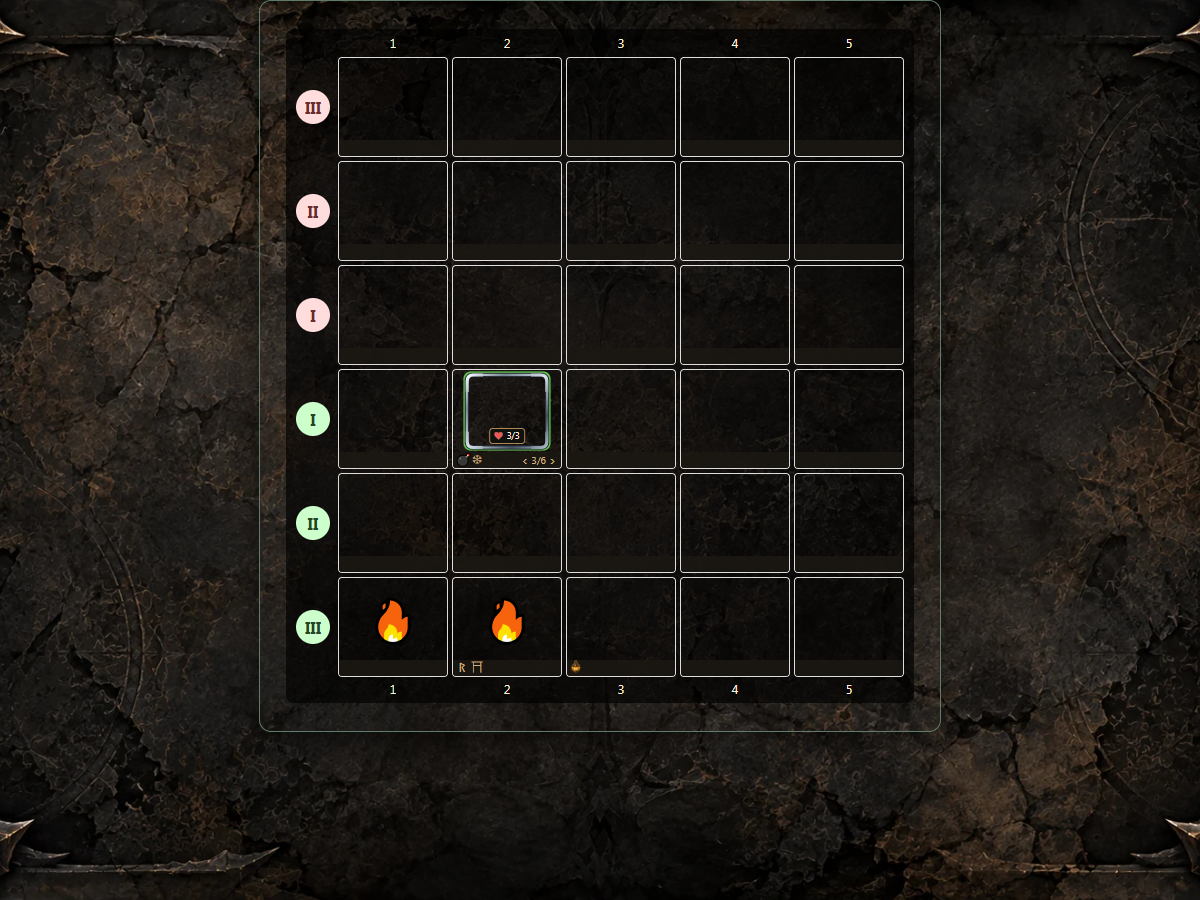
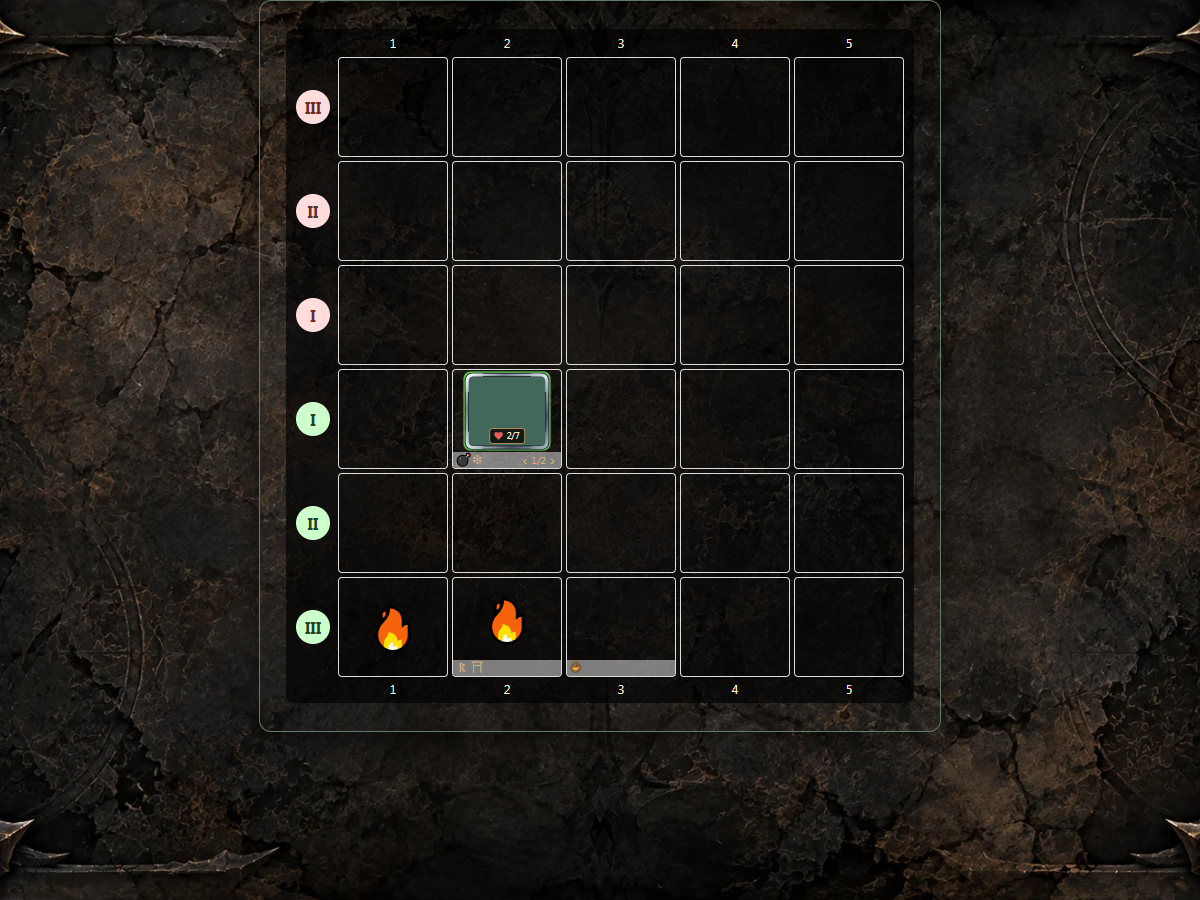
Show cell footer only when needed and restore marker hints

Changed region(s): [[0.37, 0.7156, 0.5858, 0.7778], [0.37, 0.4044, 0.4625, 0.5289], [0.3083, 0.6533, 0.3392, 0.7467]]

diff --git a/www/assets/css/battle-mini-card.css b/www/assets/css/battle-mini-card.css
@@ -70,17 +70,20 @@ html[data-battle-dragging],html[data-battle-dragging] *{cursor:grabbing!importan
 
 /* One shared footer, independent of the creature currently displayed. */
 .battle-page .cell-presentation{position:relative;width:100%;height:100%}
-.battle-page [data-cell-occupant]{position:absolute;inset:0 0 16px;display:flex;align-items:center;justify-content:center}
+.battle-page [data-cell-occupant]{position:absolute;inset:0;display:flex;align-items:center;justify-content:center}
 .battle-page [data-cell-occupant][hidden]{display:none!important}
 .battle-page [data-cell-occupant]>.card-link{width:100%;height:100%}
-.battle-page [data-cell-occupant] .battle-mini-card{zoom:.87}
-.battle-page .cell-bottom-strip{position:absolute;bottom:0;left:0;right:0;height:16px;display:flex;align-items:center;gap:2px;background:rgba(27,23,18,.9);color:#d3b383;z-index:21;box-sizing:border-box;padding:0 2px;pointer-events:none}
+.battle-page .cell-presentation:has(.cell-bottom-strip) [data-cell-occupant]{bottom:16px}
+.battle-page .cell-presentation:has(.cell-bottom-strip) [data-cell-occupant] .battle-mini-card{zoom:.87}
+.battle-page .cell-bottom-strip{position:absolute;bottom:0;left:0;right:0;height:16px;display:flex;align-items:center;gap:2px;background:rgba(221, 221, 221, 0.55);color:#d3b383;z-index:21;box-sizing:border-box;padding:0 2px;pointer-events:none}
 .battle-page .cell-bottom-strip .cell-markers{position:static;display:flex;flex:1 1 0;min-width:0;height:16px;gap:1px;overflow-x:auto;overflow-y:hidden;scrollbar-width:none;pointer-events:auto}
-.battle-page .cell-bottom-strip .cell-marker{position:static;flex:0 0 14px;width:14px;height:14px;line-height:14px;font-size:13px;text-align:center;border:0;border-radius:0;background:transparent;text-shadow:none;pointer-events:none}
+.battle-page .cell-bottom-strip .cell-marker{position:static;flex:0 0 14px;width:14px;height:14px;line-height:14px;font-size:13px;text-align:center;border:0;border-radius:0;background:transparent;text-shadow:none;pointer-events:auto}
 .battle-page .cell-bottom-strip .cell-marker::after{content:none}
 .battle-page .cell-bottom-strip .cell-marker-lantern_light{background:url('/assets/images/lantern.png') center/contain no-repeat}
 .battle-page .cell-switch{display:flex;align-items:center;flex:0 0 auto;height:16px;font:10px/16px system-ui,sans-serif;font-variant-numeric:tabular-nums;white-space:nowrap;pointer-events:auto;color:#d3b383}
 .battle-page .cell-switch button{all:unset;box-sizing:border-box;width:13px;height:16px;text-align:center;font:16px/16px system-ui,sans-serif;cursor:pointer;color:inherit}
 .battle-page .cell-switch button:focus-visible{outline:1px solid #e4c28d;outline-offset:-1px}
-.battle-page .cell-bonfire{position:absolute;inset:0 0 16px;display:flex;align-items:center;justify-content:center;font:42px/1 system-ui,sans-serif;z-index:20;pointer-events:none}
+.battle-page .cell-bonfire{position:absolute;inset:0;display:flex;align-items:center;justify-content:center;font:42px/1 system-ui,sans-serif;z-index:20;pointer-events:none}
 .battle-page [data-mini-card-design="v2"] .field-cell.attack-target:has([data-cell-occupant]:not([hidden]) [data-drag-owner="own"]){background:rgba(224,174,40,.46)}
+
+.battle-page .cell-presentation:has(.cell-bottom-strip) .cell-bonfire{bottom:16px}

diff --git a/tools/test_cell_stack.php b/tools/test_cell_stack.php
@@ -23,4 +23,5 @@ $s->cards[$ids[1]]->owner='host';$out['same']=$render();$s->cards[$ids[1]]->owne
 for($i=0;$i<4;$i++){$card=battleSnapshotCard($s->nextInstanceId(),'extra'.$i,'host',CardInstance::ZONE_FIELD,3,2,true);$s->addCard($card);$info[$card->ukid]=['name'=>'Extra '.$i];if($i===0)$out['three']=$render();}
 $out['six']=$render();$s->cell_markers['3_2']=array_fill(0,12,['type'=>'bomb']);$out['overflow']=$render();
 unset($s->cards[$ids[1]]);foreach($s->cards as $id=>$card)if(!in_array($id,$ids,true))unset($s->cards[$id]);$out['removed']=$render();
+$s->cell_markers=[];$out['clean']=$render();
 echo json_encode($out,JSON_UNESCAPED_UNICODE|JSON_THROW_ON_ERROR);

diff --git a/src/View/Screen/BattleScreen.php b/src/View/Screen/BattleScreen.php
@@ -1762,6 +1762,7 @@ final class BattleScreen
             . '<button type="button" data-cell-step="-1" aria-label="Предыдущее существо">‹</button>'
             . '<span data-cell-counter aria-live="polite">1/' . $count . '</span>'
             . '<button type="button" data-cell-step="1" aria-label="Следующее существо">›</button></span>' : '';
+        if ($markers === '' && $switch === '') return $fire;
         return $fire . '<div class="cell-bottom-strip"><div class="cell-markers">' . $markers . '</div>' . $switch . '</div>';
     }
 

diff --git a/docs/cell-stack-ui-results.md b/docs/cell-stack-ui-results.md
@@ -1,6 +1,6 @@
 # Cell markers and creature switch — 2026-10-25
 
-Implemented only the view: stable instanceId sorting and grouping, independent cell markers, cyclic local switch, 16px footer, 42px pointer-transparent bonfire. Miniatures on the field scale uniformly to .87; frame, HP and status structure remain intact. Zoom copies retain this scale. Flying/pile cards retain their dimensions. Confirmed marker types only: bomb, reduce_attack, row_spell, bonfire, gate, lantern_light. Lantern uses the existing PNG; flowering runes use a rune glyph. No tremor/rot mapping was added.
+Implemented only the view: stable instanceId sorting and grouping, independent cell markers, cyclic local switch, 16px footer, 42px pointer-transparent bonfire. Only miniatures in cells with a footer scale uniformly to .87; frame, HP and status structure remain intact. Zoom copies retain this scale. Flying/pile cards retain their dimensions. Confirmed marker types only: bomb, reduce_attack, row_spell, bonfire, gate, lantern_light. Lantern uses the existing PNG; flowering runes use a rune glyph. No tremor/rot mapping was added.
 
 Changed: BattleScreen.php; battle-mini-card.css; battle-mini-card.js; .gitignore (whitelist this one debug scenario); debug/scenarios/ui_cell_stack.json; tools/test_cell_stack.php; tools/test_cell_stack.cjs. Screenshot: docs/evidence/cell-stack/cell-stack-tested.png.
 
@@ -19,3 +19,5 @@ Limitations / failed infrastructure check:
 - No combat action, server targeting rule, engine, placement validation, LuckTest loader, symbiote or spirit mechanic was changed.
 
 Re-run: `node tools/test_cell_stack.cjs`. The PHP and Edge/Playwright paths in the test match this Windows environment; CELL_STACK_OUTPUT can override the screenshot directory.
+
+Follow-up: empty footers are omitted; single unmarked cards retain 102x92 size; bonfire alone has no footer; footer background is rgba(221, 221, 221, 0.55). Marker pointer events enable the existing native title hint. Browser checks for original size, absent empty strips, background and bomb hover hit-testing passed. Updated screenshots include cell-stack-clean-tested.png.
